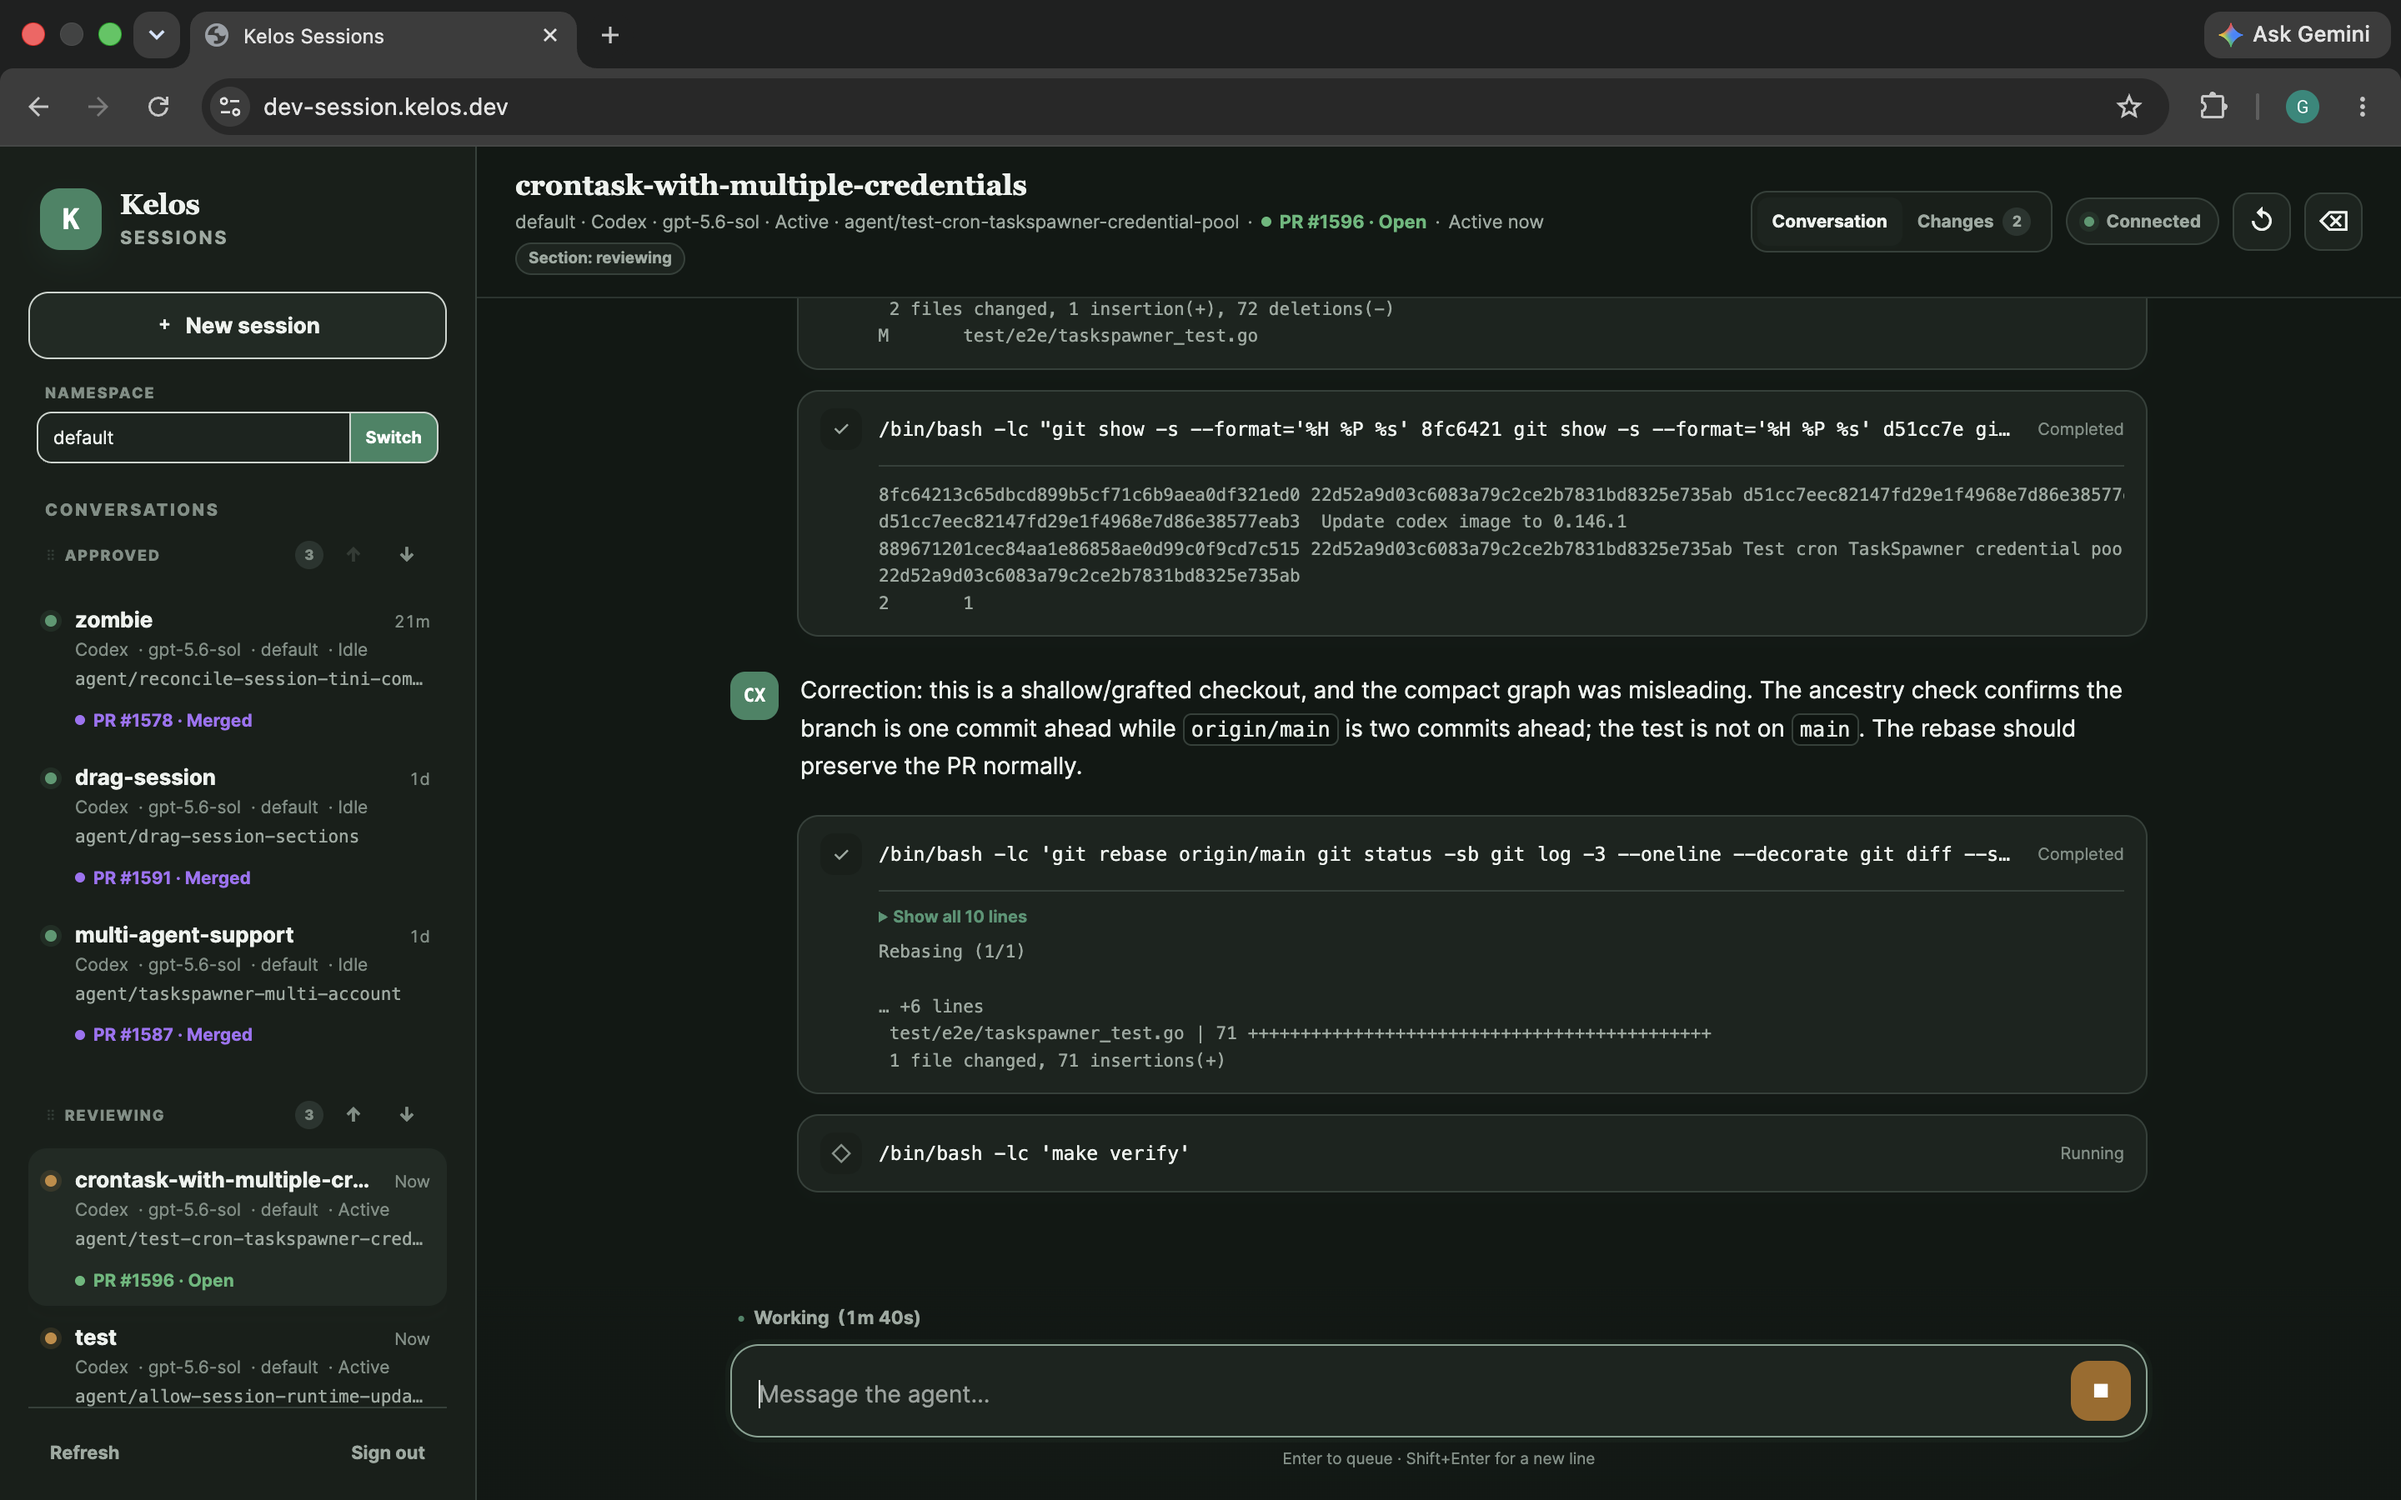
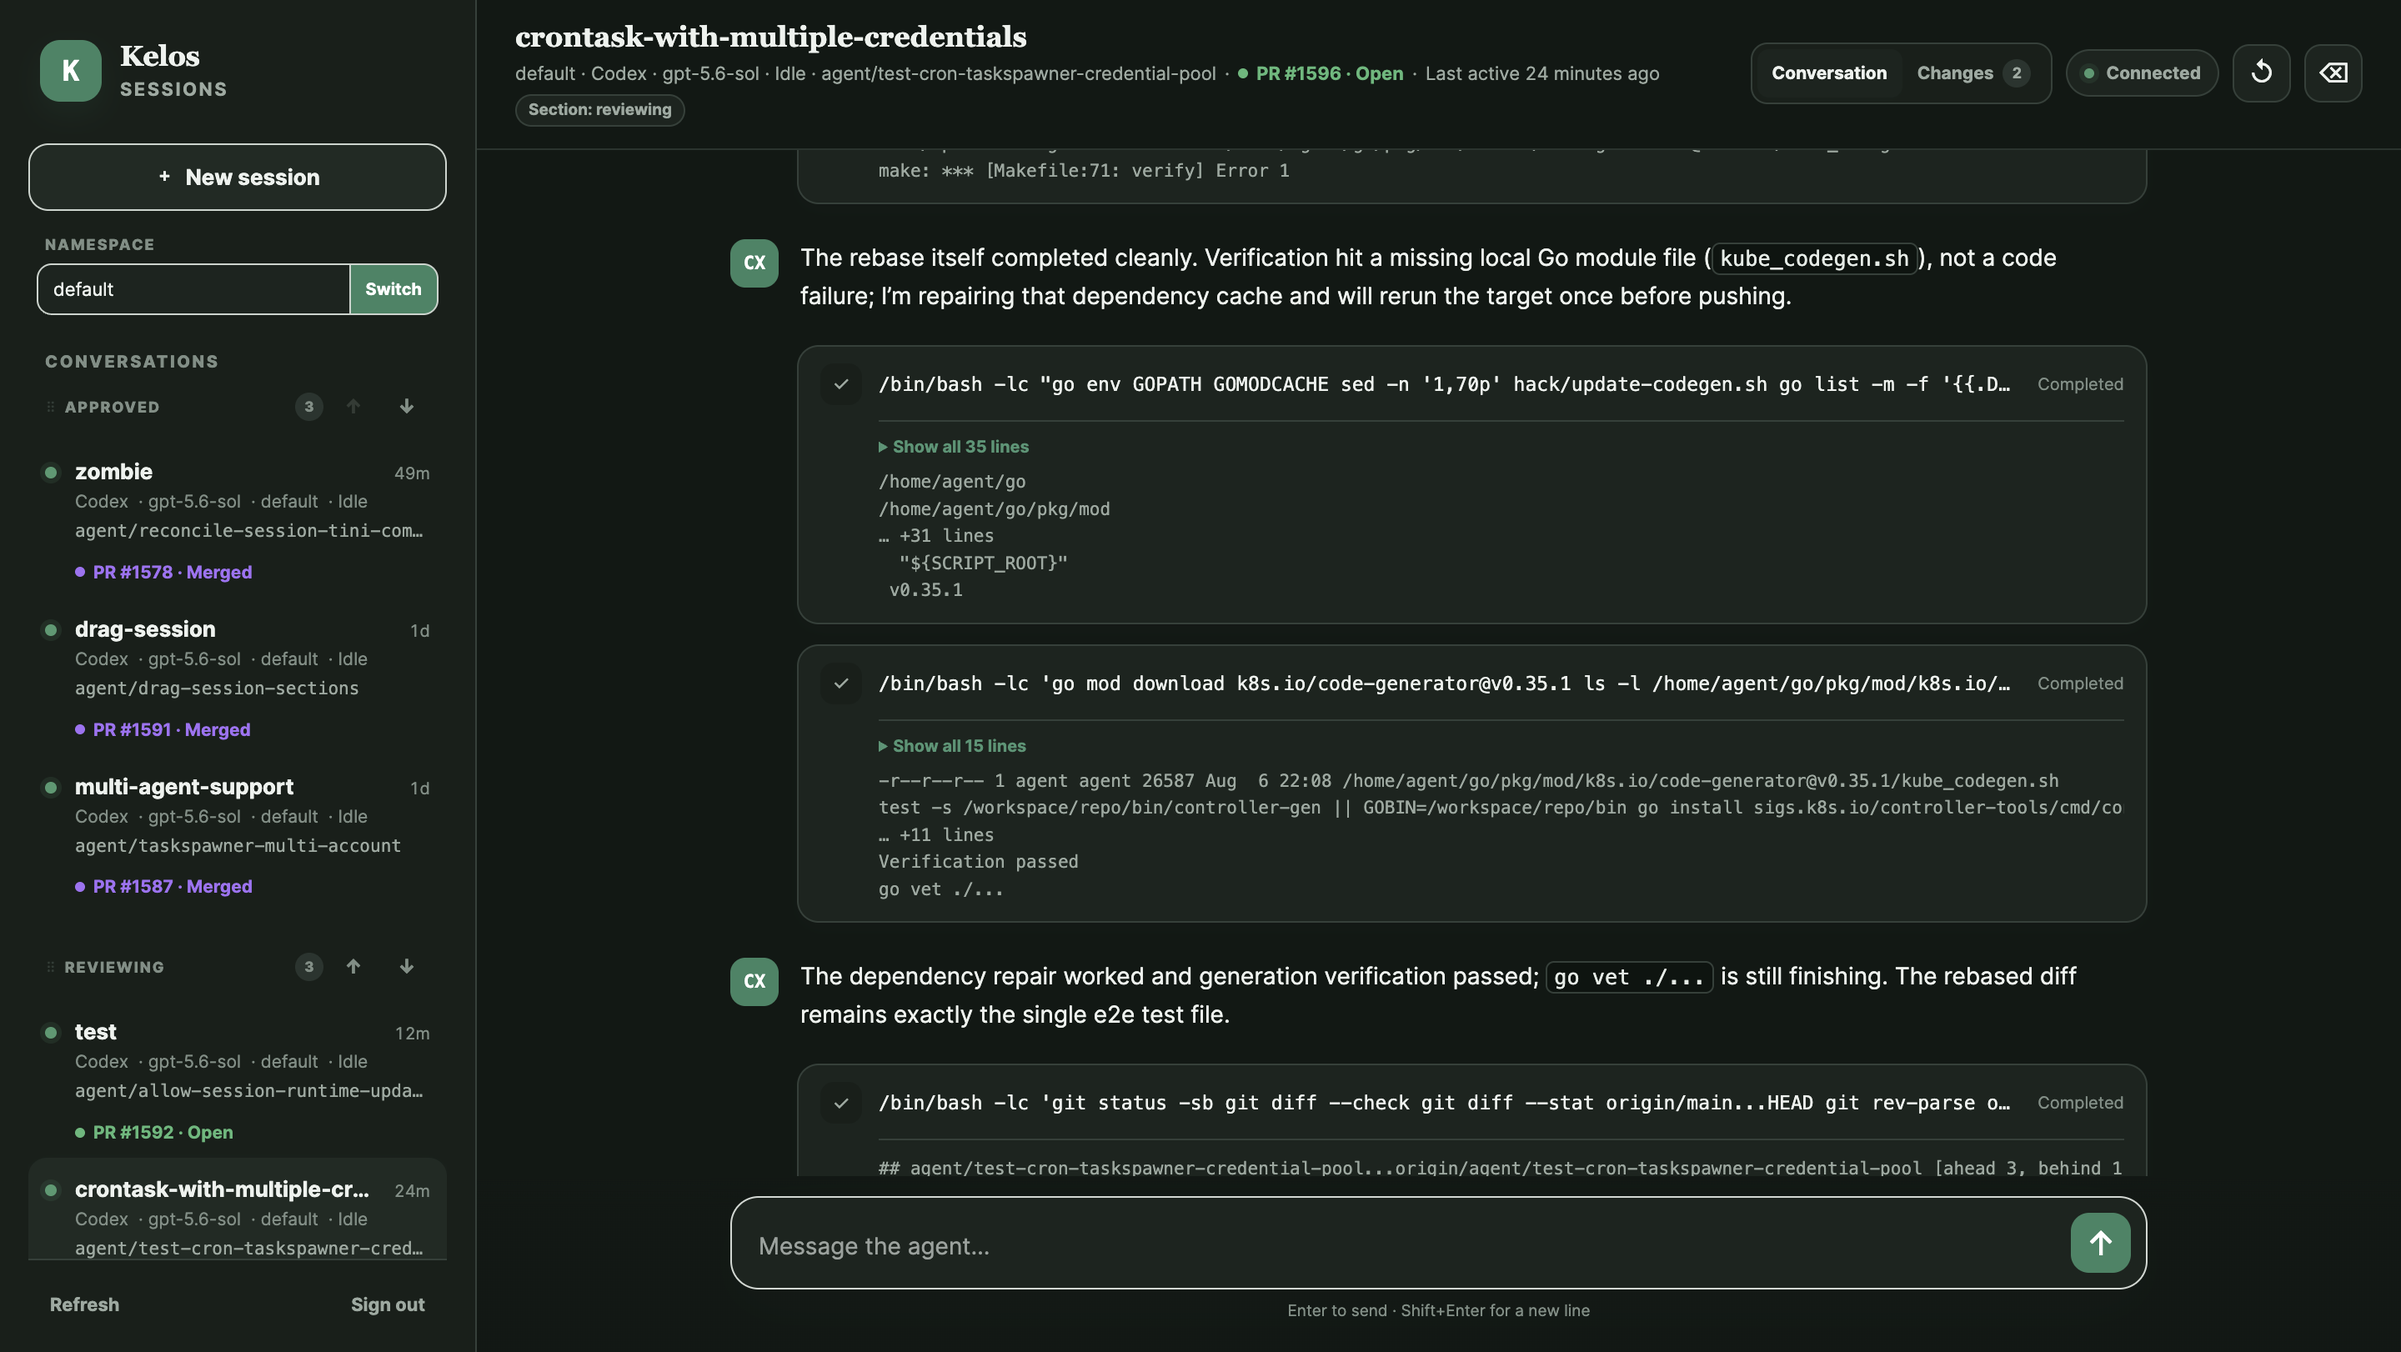
Update Session server screenshot and guide

diff --git a/README.md b/README.md
@@ -27,7 +27,11 @@ automation, pipelines, and parallel work across many repositories. It supports
 Claude Code, OpenAI Codex, Google Gemini, OpenCode, Cursor, and
 [custom agent images](docs/agent-image-interface.md).
 
-<img alt="Kelos Sessions web interface showing multiple agent conversations" src="docs/images/kelos-session-server.png" />
+<p align="center">
+  <img alt="Kelos Sessions web interface showing multiple agent conversations" src="docs/images/kelos-session-server.png" />
+  <br>
+  <a href="#use-the-session-web-chat">Set up the Session web chat</a>
+</p>
 
 ## Why Kelos?
 
@@ -218,6 +222,12 @@ kubectl apply -f examples/16-session/
 kelos session connect interactive-review
 ```
 
+##### Use the Session web chat
+
+To create, organize, and chat with Sessions in a browser, enable the optional
+Session server. Follow the [Session web chat guide](internal/manifests/charts/kelos/README.md#session-web-chat)
+to configure its shared token and access the cluster-internal web application.
+
 See the [configuration reference](docs/reference.md#configuration) for other
 agents and authentication options.
 
@@ -243,7 +253,7 @@ workflows running the project.
 | Resource fields and CLI commands | [Reference](docs/reference.md) |
 | Ready-to-apply patterns | [Examples](examples/) |
 | GitHub, Jira, CI, and webhook connections | [Integration guide](docs/integration.md) |
-| Interactive Sessions | [Session example](examples/16-session/) |
+| Interactive Sessions | [Session example](examples/16-session/) and [web chat guide](internal/manifests/charts/kelos/README.md#session-web-chat) |
 | Custom agent containers | [Agent image interface](docs/agent-image-interface.md) |
 | Helm installation and upgrades | [Chart documentation](internal/manifests/charts/kelos/README.md) |
 | Contributing | [Contributing guide](CONTRIBUTING.md) |

diff --git a/internal/manifests/charts/kelos/README.md b/internal/manifests/charts/kelos/README.md
@@ -228,13 +228,18 @@ kubectl port-forward -n kelos-system service/kelos-session-server 8080:80
 ```
 
 Then open `http://localhost:8080` and enter the token. The token represents one
-shared user that can create, list, delete, and connect to Sessions in any
-namespace. The web application operates on one active namespace at a time and
-can switch it live from the sidebar. `sessionServer.defaultNamespace` (`default`
-unless overridden) sets the initial active namespace. The selected namespace
-must already exist. Session, Workspace, AgentConfig, and previously used
-credential options are loaded only from the active namespace. The creation
-form and selected Session header can assign Sessions to sidebar sections.
+shared user that can create, list, reset, delete, and connect to Sessions in any
+namespace. Treat it as a credential. For access beyond a local port-forward,
+terminate TLS at a trusted proxy, set `sessionServer.secureCookie=true`, and
+restrict access to the endpoint at the network or proxy layer. The Session
+server does not provide separate user identities or per-user authorization.
+
+The web application operates on one active namespace at a time and can switch
+it live from the sidebar. `sessionServer.defaultNamespace` (`default` unless
+overridden) sets the initial active namespace. The selected namespace must
+already exist. Session, Workspace, AgentConfig, and previously used credential
+options are loaded only from the active namespace. The creation form and
+selected Session header can assign Sessions to sidebar sections.
 Assignments are stored in the `kelos.dev/session-section` annotation, and
 the controls list existing section names in the active namespace or create a
 section once for later reuse. In the sidebar, Sessions can be dragged between
